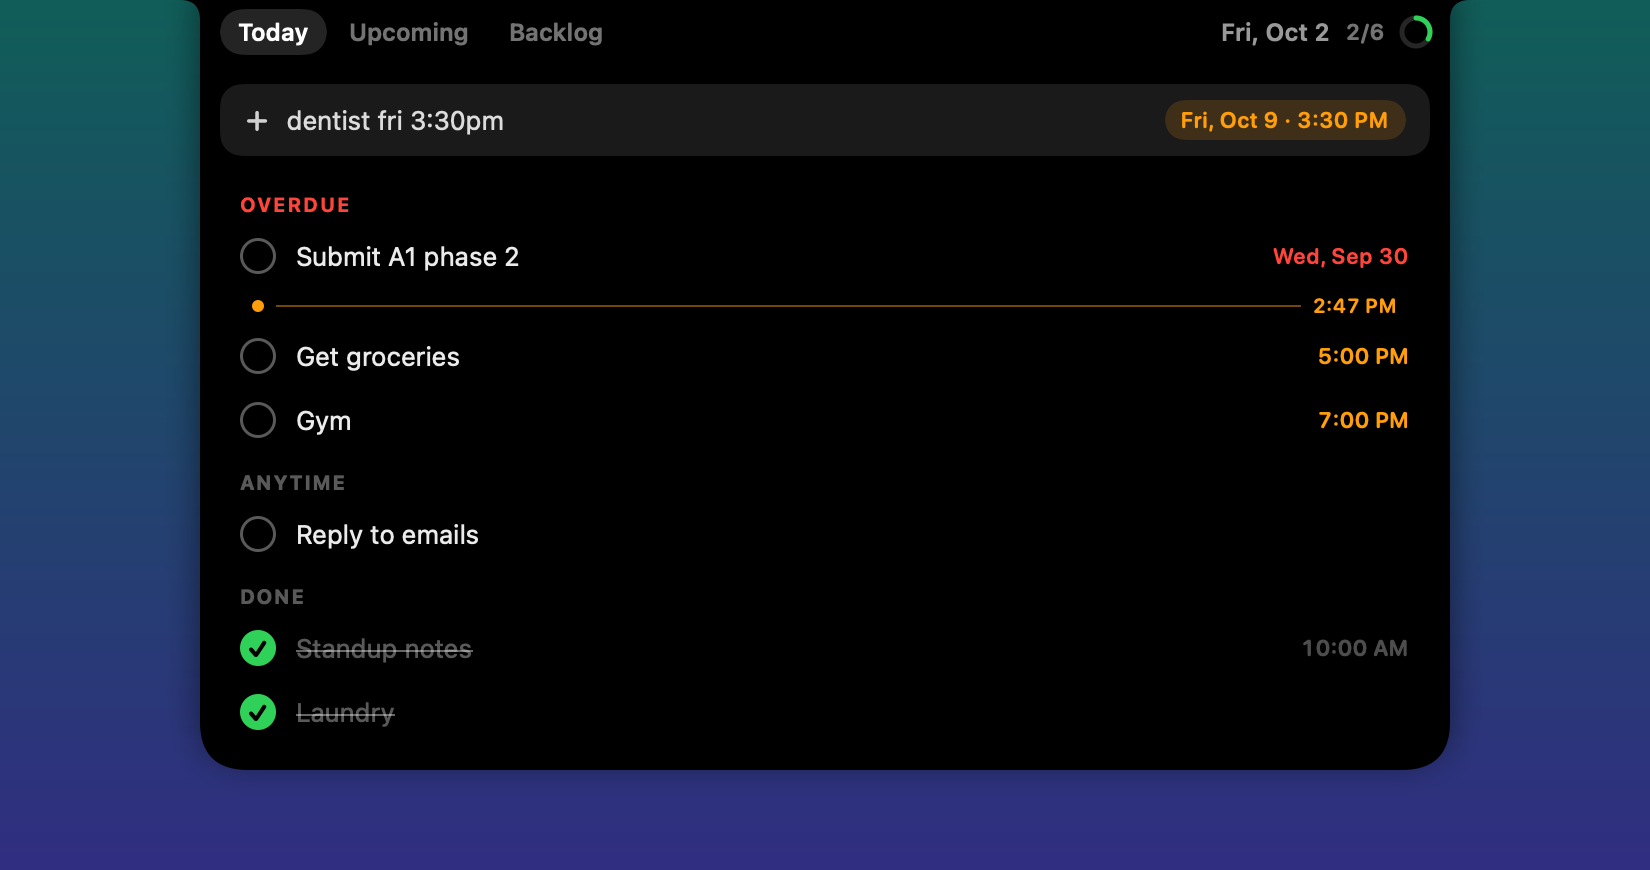
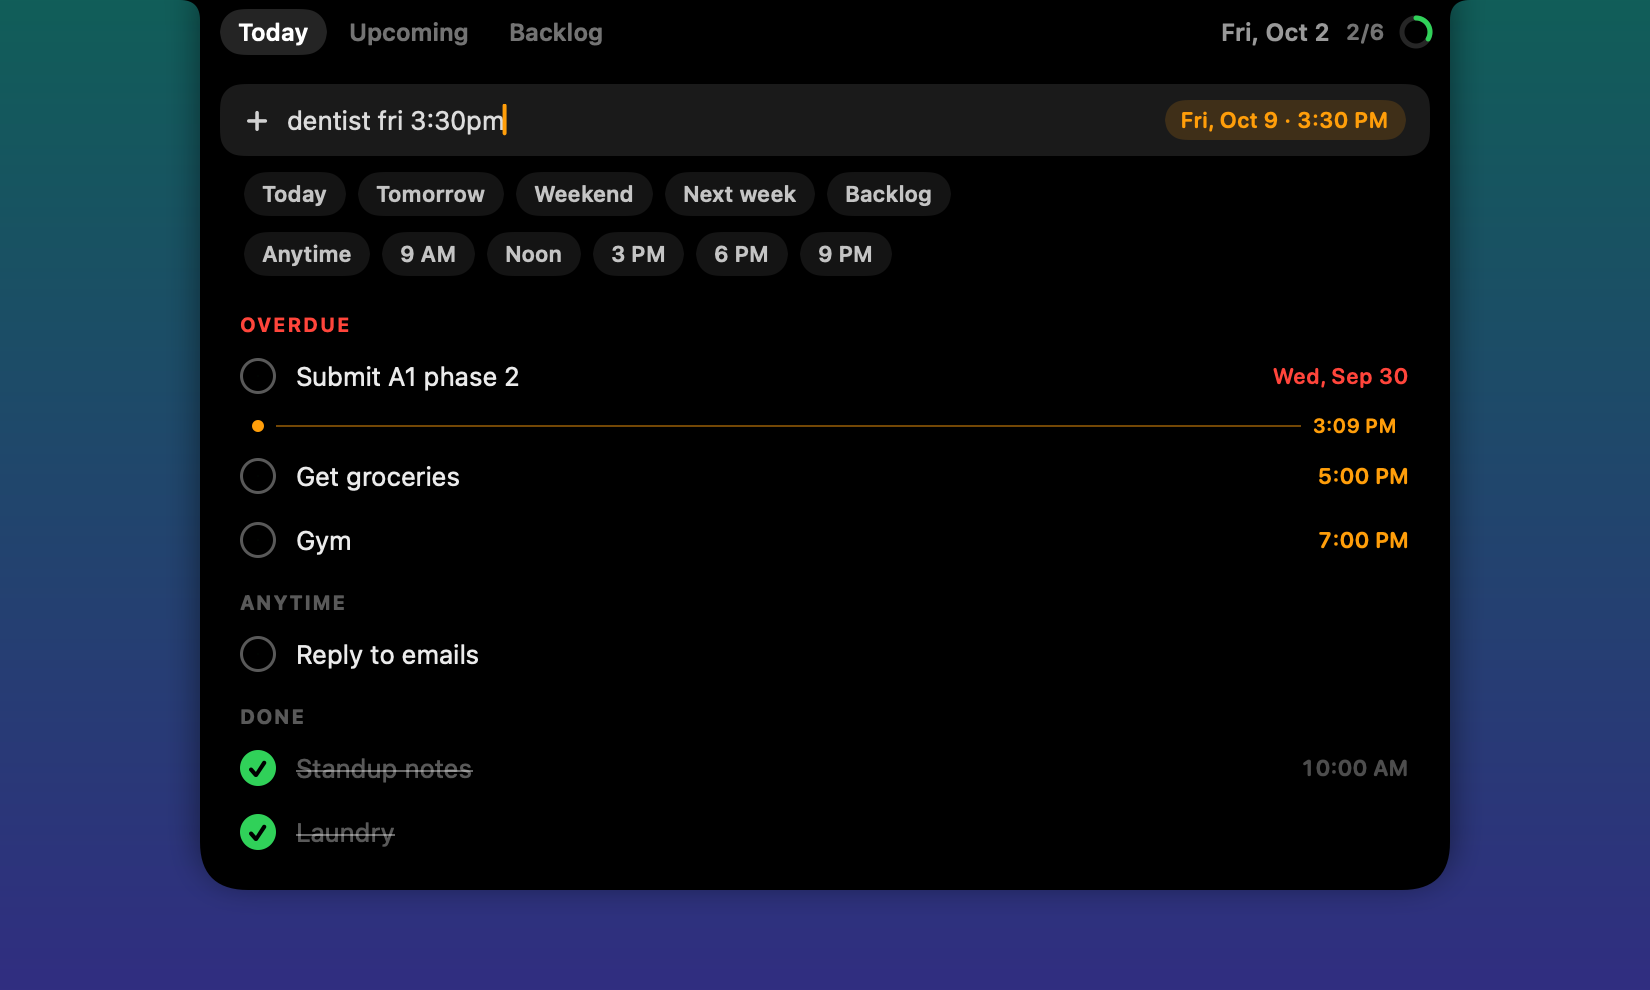
docs: chips, Done, and rename in the README; bundle.sh waits for the old app to exit

diff --git a/README.md b/README.md
@@ -15,14 +15,16 @@ island drops down and asks if it is done.
 - **Lives in the notch.** When closed, the island hides in the notch. Two small wings show today's
   progress ring and the time of your next task.
 - **Peeks on hover.** Point at the notch to see the next task. Click to open.
-- **Quick add with plain words.** The trailing words of a task set its day and time. A chip shows where
-  the task will go before you press Return.
+- **Quick add with plain words or chips.** The trailing words of a task set its day and time. While you
+  type, day and time chips appear under the field. A chip writes its words into the field, so you
+  always see what the task gets, and a tag at the right shows where it will go.
 - **Three lists.** *Today* (with overdue tasks and a "now" line), *Upcoming* (grouped by day), and
   *Backlog* (no date yet).
 - **Plan in two clicks.** Hover a row and click ☀ to move it to today. Click the calendar to pick a day
-  chip, a time chip, or type a phrase like `fri 4pm`.
+  chip, a time chip, or type a phrase like `fri 4pm`. Click **Done**, or press Return or Esc, to close it.
+- **Rename in place.** Click a title to edit it. Return or a click elsewhere saves. Esc cancels.
 - **Reminders in the island.** At a task's time, the island expands with **Done** and **Snooze 10m**.
-- **Undo.** Delete and move show a short undo bar.
+- **Undo.** A delete, or a move that takes a task out of the list, shows a short undo bar.
 - **Local and private.** Tasks stay in one JSON file on your Mac. No account, no network.
 
 | Closed | Peek | Reminder |
